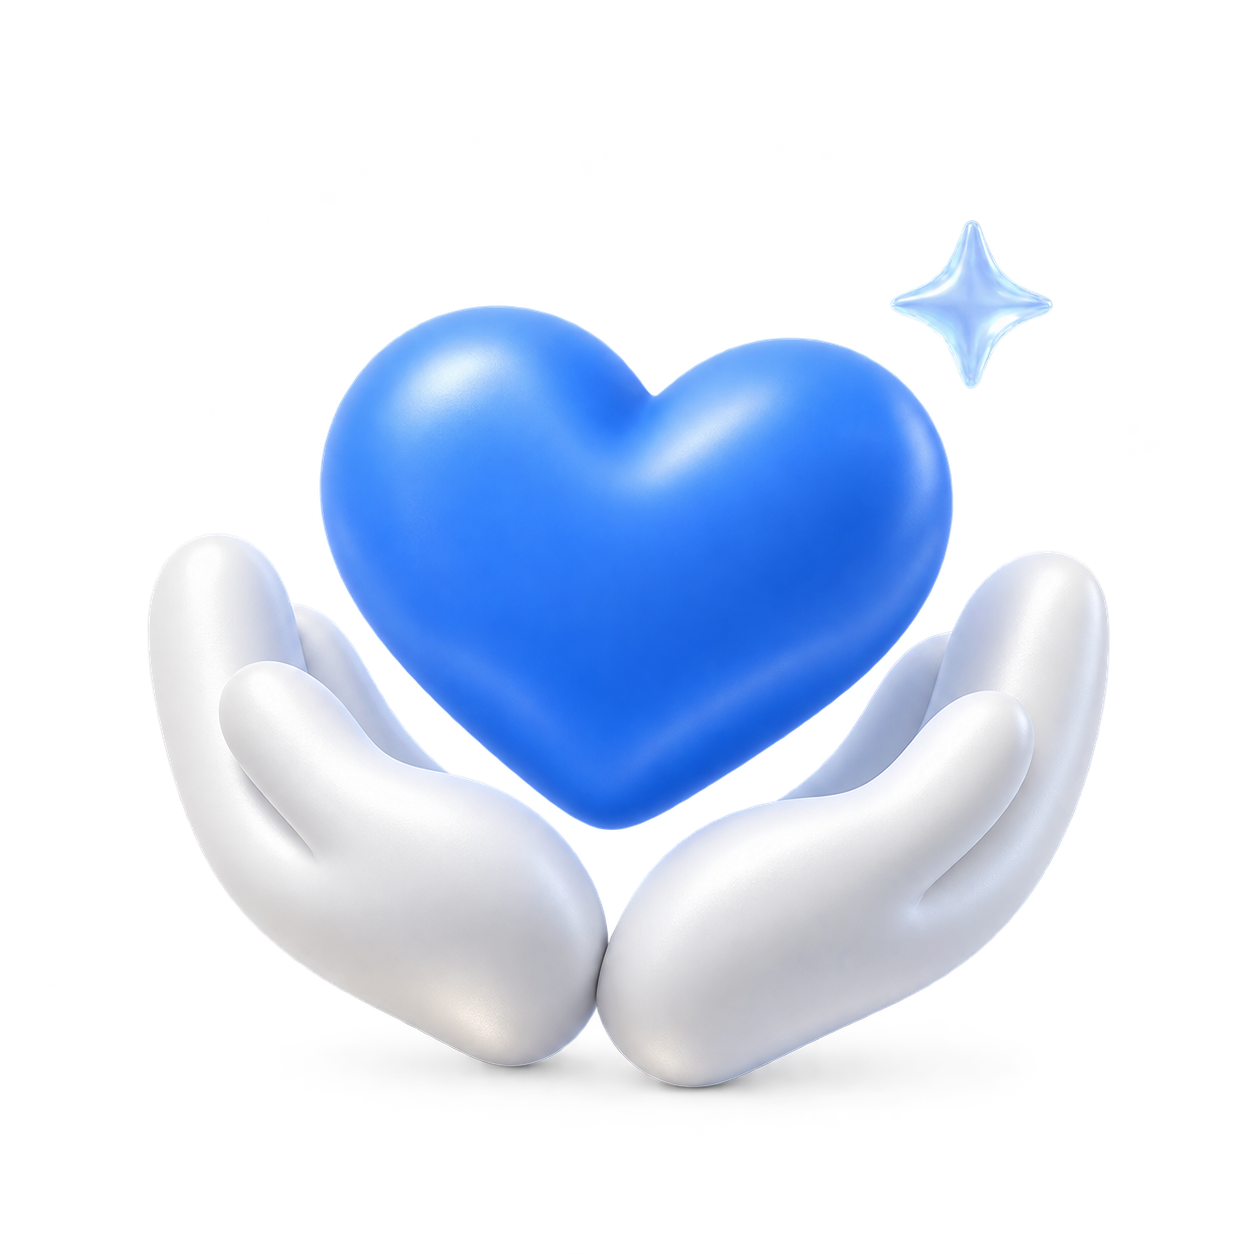
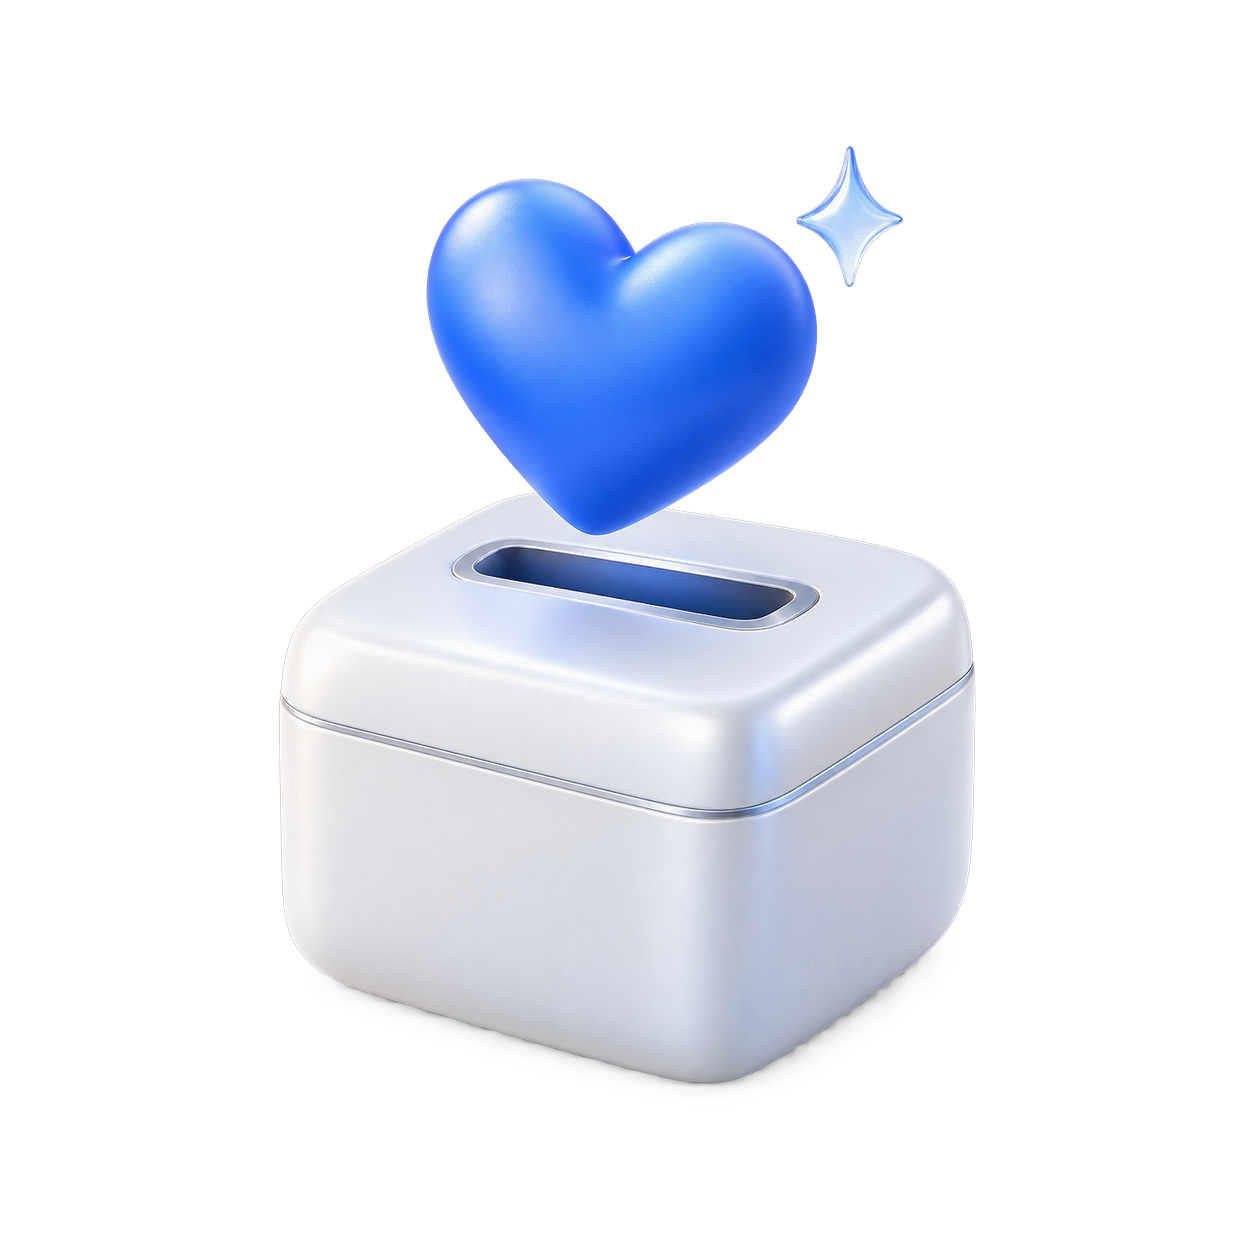
feat: replace images containing people with people-free versions
Swap 11 images that showed faces, bodies, hands or pedestrians for
AI-generated replacements at the same paths and dimensions. Three are
currently rendered (found-market, invite-art, donate-art); the other
eight are unreferenced files that remain publicly reachable.

- donate-art: scale the object down to match the other benefit icons
- Edition.js: update the market image alt text
- README: note the replacement and the current home hero files
- design/NO_PEOPLE_IMAGE_PROMPTS.md: target list and generation prompts

Changed region(s): [[0.0933, 0.1244, 0.9019, 0.8708], [0.7153, 0.1866, 0.8397, 0.311]]

diff --git a/components/Edition.js b/components/Edition.js
@@ -59,7 +59,7 @@ export function DiscoveryHero() {
 
 const PLACES = [
   {name:'편의점', image:'/images/editorial/note-coffee.png', alt:'일상 속 한 잔의 커피', title:<>늘 들르는 곳에도,<br />챙길 것이 있으니까.</>, description:'자주 가는 편의점의 행사도 놓치지 않게. 풀리가 찾아둔 정보를 가볍게 확인해 보세요.', example:'커피 2+1', date:'2026.09.30까지 · 9월 22일 확인', note:'매장 사정에 따라 일찍 끝나거나 물량이 없을 수 있어요.'},
-  {name:'마트', image:'/images/edition/found-market.png', alt:'동네 마트에서 고르는 신선한 과일', title:<>오늘 장보기에도,<br />반가운 발견 하나.</>, description:'우리 동네 마트의 행사 정보를 한곳에. 필요한 것을 사러 가기 전에 한 번 살펴보세요.', example:'제철 과일 한 팩 더', date:'2026.09.19 ~ 09.20 · 9월 18일 확인', note:'주말 한정 행사 예시예요. 매장별 물량이 다를 수 있어요.'},
+  {name:'마트', image:'/images/edition/found-market.png', alt:'동네 마트에 진열된 신선한 과일', title:<>오늘 장보기에도,<br />반가운 발견 하나.</>, description:'우리 동네 마트의 행사 정보를 한곳에. 필요한 것을 사러 가기 전에 한 번 살펴보세요.', example:'제철 과일 한 팩 더', date:'2026.09.19 ~ 09.20 · 9월 18일 확인', note:'주말 한정 행사 예시예요. 매장별 물량이 다를 수 있어요.'},
   {name:'주유소', image:'/images/edition/found-fuel.png', alt:'파란 주유 노즐이 놓인 동네 주유소', title:<>가까운 주유소를,<br />한 번 더 살펴봐요.</>, description:'내가 정해둔 생활권의 주유 가격을 모아 보여드려요. 확인한 시각도 함께 알려드려요.', example:'우리 동네 최저가 주유소', date:'휘발유 1리터 가격 · 오늘 06:00 기준', note:'주유 가격은 수시로 바뀌어요. 방문 시점에는 달라질 수 있어요.'},
 ];
 

diff --git a/design/NO_PEOPLE_IMAGE_PROMPTS.md b/design/NO_PEOPLE_IMAGE_PROMPTS.md
@@ -1,0 +1,134 @@
+# 인물 없는 이미지 교체 · AI 생성 프롬프트
+
+작성 2026-09-28 · `public/` 아래 이미지 59장(images 44, screens 9, mascot 6)을 전부 눈으로 확인해 사람(얼굴·몸·손·행인)이 나오는 이미지를 골랐고, 같은 날 11장 모두 교체했습니다.
+
+## 1. 교체 결과
+
+| # | 파일명 | 최종 경로 | 규격(px) | 이전 사람 요소 | 새 이미지 | 사이트 노출 |
+|---|---|---|---|---|---|---|
+| 1 | `found-market.png` | `public/images/edition/` | 1536×1024 | 과일을 집는 손·소매 | 오렌지·사과·딸기 진열대 | 노출 중 (FOUND AI · 마트) |
+| 2 | `fulif-hero-cinema-v2.png` | `public/images/` | 1672×941 | 영화관 커플 + 관객 | 빈 상영관, 팝콘과 티켓 | 코드 참조 없음 |
+| 3 | `fulif-hero-cinema-mobile-v2.png` | `public/images/` | 941×1672 | 영화관 커플 + 관객 | 빈 상영관 세로 구도 | 코드 참조 없음 |
+| 4 | `cafe-life.png` | `public/images/` | 1672×941 | 카페 커플 | 음료 두 잔이 놓인 빈 테이블 | 코드 참조 없음 |
+| 5 | `life-hero.png` | `public/images/` | 1672×941 | 버스 안 여성 + 승객 | 에코백이 놓인 빈 창가 좌석 | 코드 참조 없음 |
+| 6 | `reward-moment.png` | `public/images/` | 1672×941 | 휴대폰을 든 두 손 | 거치대에 세운 휴대폰 | 코드 참조 없음 |
+| 7 | `partner-moment.png` | `public/images/editorial/` | 1536×1024 | 바리스타와 손님 | 포장 봉투가 놓인 빈 카운터 | 코드 참조 없음 |
+| 8 | `service-day.png` | `public/images/editorial/` | 1536×1024 | 카페 안 여성 + 직원 | 빈 카페 창가 자리 | 코드 참조 없음 |
+| 9 | `found-street.png` | `public/images/edition/` | 1672×941 | 멀리 걷는 행인 2명 | 행인 없는 동네 거리 | 코드 참조 없음 |
+| 10 | `invite-art.png` | `public/images/benefits/` | 1254×1254 투명 | 사람 모양 3D 흉상 | 초대장 봉투 2개 | 노출 중 (혜택 · 친구 초대) |
+| 11 | `donate-art.png` | `public/images/benefits/` | 1254×1254 투명 | 3D 손 모양 오브제 | 기부함 위의 하트 | 노출 중 (혜택 · 기부) |
+
+- 원본 생성 파일은 `design/incoming/`에 같은 파일명으로 있습니다.
+- `donate-art.png`는 생성본이 프레임을 거의 꽉 채워, 다른 혜택 아이콘과 크기가 맞도록 오브제를 긴 변 964px로 줄여 가운데 배치했습니다. 나머지 10장은 생성본 그대로입니다.
+- 현재 히어로(`bright/hero-neighborhood*.png`)와 `bright/`, `fulif-own/`, `editorial/`의 나머지, `benefits/`·`subpages/` 3D 아트, 앱 스크린, 마스코트에는 사람이 없어 대상이 아닙니다.
+- `legacy/` 폴더는 배포되지 않아 제외했습니다.
+
+## 2. 다시 생성할 때의 규칙
+
+1. 아래 **파일명 그대로** PNG(sRGB)로 저장합니다.
+2. `design/incoming/` 폴더 **안에** 파일만 넣습니다. `design` 폴더 자체를 덮어쓰면 이 문서를 포함한 기존 문서가 지워집니다.
+3. 해상도는 표의 규격 이상, 비율만 맞으면 됩니다.
+
+| 비율 | 최종 규격 | 생성 시 권장 크기 |
+|---|---|---|
+| 3:2 가로 | 1536×1024 | 1536×1024 |
+| 16:9 가로 | 1672×941 | 1672×941 또는 1920×1080 |
+| 9:16 세로 | 941×1672 | 941×1672 또는 1080×1920 |
+| 1:1 (투명 배경) | 1254×1254 | 1254×1254 또는 1024×1024 |
+
+## 3. 공통 프롬프트
+
+### 3-1. 실사 사진용 공통 블록 (1~9번)
+
+각 이미지 프롬프트는 이 블록을 이미 포함하고 있습니다.
+
+```text
+Use case: photorealistic-natural. Asset type: original premium editorial photography for FULIF, a Korean everyday rewards website. Refined cobalt blue, white and pale sky blue with restrained green. Physically believable real materials and natural imperfect texture, not an illustration, not a plastic 3D miniature, not an AI-looking fantasy. Absolutely NO people, faces, hands, arms, silhouettes, human shadows, people reflected in glass, mannequins, models on posters, or human images on products or screens. No legible text, no lettering, logos, brand marks, watermarks, fake app UI or collages.
+```
+
+### 3-2. 네거티브 프롬프트 (도구가 지원할 때)
+
+```text
+people, person, human, man, woman, child, face, hands, fingers, arms, legs, silhouette, crowd, pedestrian, passerby, reflection of a person, human shadow, mannequin, portrait, poster with a person, text, letters, numbers, logo, watermark, signage, UI, barcode, low quality, distorted, extra objects
+```
+
+### 3-3. 생성 후 확인
+
+- 유리창·거울·휴대폰 화면·금속 표면에 사람이 비치지 않는지
+- 포스터·상품 포장·간판에 사람 그림이나 읽히는 글자가 없는지
+- 멀리 있는 작은 행인, 차 안 운전자, 바닥의 사람 그림자가 없는지
+- 파란색이 코발트 블루(`#3182f6` 계열)에 가깝고 전체가 밝은 톤인지 (영화관 장면 제외)
+
+## 4. 이미지별 프롬프트
+
+### 1. found-market.png
+
+화면에서는 데스크톱 약 650×535, 모바일 가로 전체×315로 잘려 표시됩니다. 주요 과일은 중앙 70% 안에 둡니다.
+
+```text
+Use case: photorealistic-natural. Asset type: original premium editorial photography for FULIF, a Korean everyday rewards website. Refined cobalt blue, white and pale sky blue with restrained green. Physically believable real materials and natural imperfect texture, not an illustration, not a plastic 3D miniature, not an AI-looking fantasy. Absolutely NO people, faces, hands, arms, silhouettes, human shadows, people reflected in glass, mannequins, models on posters, or human images on products or screens. No legible text, no lettering, logos, brand marks, watermarks, fake app UI or collages. Primary request: wide landscape 3:2 close view of a fresh fruit display in a bright small Korean neighborhood grocery market. A generous pile of vivid oranges in a cobalt-blue plastic crate at the center, red apples in a blue crate to the left, clear punnets of strawberries in the front. Softly blurred bright shop interior with shelves and a sunlit window behind. No hand reaching for the fruit, nobody in the aisle. Main fruit kept within the central 70% of the frame so the image survives cropping. Eye-level 50mm photograph, shallow depth of field, luminous morning daylight, clean and appetizing, no price tags or labels.
+```
+
+### 2. fulif-hero-cinema-v2.png
+
+```text
+Use case: photorealistic-natural. Asset type: original premium editorial photography for FULIF, a Korean everyday rewards website. Refined cobalt blue, white and pale sky blue with restrained green. Physically believable real materials and natural imperfect texture, not an illustration, not a plastic 3D miniature, not an AI-looking fantasy. Absolutely NO people, faces, hands, arms, silhouettes, human shadows, people reflected in glass, mannequins, models on posters, or human images on products or screens. No legible text, no lettering, logos, brand marks, watermarks, fake app UI or collages. Primary request: wide cinematic 16:9 view of a completely empty modern cinema auditorium just after a screening. Rows of deep cobalt-blue velvet seats, warm small amber step lights along the aisle stairs on the right. In the middle row, one paper cup of popcorn resting in a cup holder and two blank pale paper tickets left on a seat cushion. Every seat is empty, nobody on the stairs, nobody in the background. Out-of-focus blue seat backs fill the lower foreground, leaving a calm dark area in the upper left for a white headline overlay. Moody but inviting low light, soft blue ambient glow, realistic velvet texture, 35mm lens.
+```
+
+### 3. fulif-hero-cinema-mobile-v2.png
+
+```text
+Use case: photorealistic-natural. Asset type: original premium editorial photography for FULIF, a Korean everyday rewards website. Refined cobalt blue, white and pale sky blue with restrained green. Physically believable real materials and natural imperfect texture, not an illustration, not a plastic 3D miniature, not an AI-looking fantasy. Absolutely NO people, faces, hands, arms, silhouettes, human shadows, people reflected in glass, mannequins, models on posters, or human images on products or screens. No legible text, no lettering, logos, brand marks, watermarks, fake app UI or collages. Primary request: tall portrait 9:16 image for a mobile website hero. A completely empty modern cinema auditorium with rows of deep cobalt-blue velvet seats and warm amber step lights along the aisle stairs on the right. In the middle of the frame, one paper cup of popcorn in a cup holder and two blank pale paper tickets left on a seat cushion. Every seat is empty, nobody on the stairs. Top 35% is calm dark blue ceiling and back wall with a few soft spotlights for a white headline overlay, bottom 30% is out-of-focus blue seat backs. Moody but inviting low light, realistic velvet texture.
+```
+
+### 4. cafe-life.png
+
+```text
+Use case: photorealistic-natural. Asset type: original premium editorial photography for FULIF, a Korean everyday rewards website. Refined cobalt blue, white and pale sky blue with restrained green. Physically believable real materials and natural imperfect texture, not an illustration, not a plastic 3D miniature, not an AI-looking fantasy. Absolutely NO people, faces, hands, arms, silhouettes, human shadows, people reflected in glass, mannequins, models on posters, or human images on products or screens. No legible text, no lettering, logos, brand marks, watermarks, fake app UI or collages. Primary request: wide 16:9 view of a long wooden table in a bright Korean cafe beside large open windows with green trees outside. On the table, two iced americano glasses with straws placed across from each other, a face-down white smartphone and a small glass vase of white wildflowers at the left edge. Two empty chairs slightly pulled out, as if friends have just stepped away. Nobody in the cafe, nobody outside the window. Bright airy daylight, soft leaf shadows on the table, shallow depth of field, calm warm mood with cobalt-blue accents in a coaster and a folded napkin.
+```
+
+### 5. life-hero.png
+
+```text
+Use case: photorealistic-natural. Asset type: original premium editorial photography for FULIF, a Korean everyday rewards website. Refined cobalt blue, white and pale sky blue with restrained green. Physically believable real materials and natural imperfect texture, not an illustration, not a plastic 3D miniature, not an AI-looking fantasy. Absolutely NO people, faces, hands, arms, silhouettes, human shadows, people reflected in glass, mannequins, models on posters, or human images on products or screens. No legible text, no lettering, logos, brand marks, watermarks, fake app UI or collages. Primary request: wide 16:9 interior of an empty Seoul city bus on a bright morning. A window seat with cobalt-blue upholstery on the right, a plain cream canvas tote bag resting on the seat, blue handrails and poles receding into the softly blurred background. Through the large window on the left, a sunlit tree-lined city street with softly blurred buildings. Every seat is empty, no driver visible, no pedestrians outside, no people in passing cars. Warm morning sunlight streaming across the seats, gentle lens glow, calm optimistic commute mood, 35mm lens. No route maps, advertisements or signage.
+```
+
+### 6. reward-moment.png
+
+```text
+Use case: photorealistic-natural. Asset type: original premium editorial photography for FULIF, a Korean everyday rewards website. Refined cobalt blue, white and pale sky blue with restrained green. Physically believable real materials and natural imperfect texture, not an illustration, not a plastic 3D miniature, not an AI-looking fantasy. Absolutely NO people, faces, hands, arms, silhouettes, human shadows, people reflected in glass, mannequins, models on posters, or human images on products or screens. No legible text, no lettering, logos, brand marks, watermarks, fake app UI or collages. Primary request: wide 16:9 close view of a modern smartphone standing upright on a small wooden stand on a round cafe table by a large window. The phone screen is plain clean white with only one simple cobalt-blue circle containing a white check mark in the center, nothing else on the screen. Beside it a white cup of latte on a saucer and a small vase of white flowers, softly blurred. Phone placed right of center, the left 45% is a softly blurred bright window with a pale city view for headline overlay. Nobody holding the phone, no hands, no reflections of a person on the screen. Soft natural daylight, shallow depth of field.
+```
+
+### 7. partner-moment.png
+
+현재 파트너 페이지에서 쓰는 `bright/partner-counter.png`와 겹치지 않도록 카운터를 측면에서 본 구도입니다.
+
+```text
+Use case: photorealistic-natural. Asset type: original premium editorial photography for FULIF, a Korean everyday rewards website. Refined cobalt blue, white and pale sky blue with restrained green. Physically believable real materials and natural imperfect texture, not an illustration, not a plastic 3D miniature, not an AI-looking fantasy. Absolutely NO people, faces, hands, arms, silhouettes, human shadows, people reflected in glass, mannequins, models on posters, or human images on products or screens. No legible text, no lettering, logos, brand marks, watermarks, fake app UI or collages. Primary request: wide landscape 3:2 side-angle view along a bright neighborhood cafe pickup counter. A plain kraft paper takeaway bag with a folded top standing ready on the white stone counter in the center, a glass dome with scones at the lower left, a cobalt-blue espresso machine and a coffee grinder softly blurred behind. White tiled wall with wooden shelves of cups at the left, a large sunlit window on the right. No barista behind the counter, no customer, the order is simply waiting to be picked up. Blank tablet stand turned away from camera. Luminous natural daylight, warm welcoming mood, shallow depth of field.
+```
+
+### 8. service-day.png
+
+```text
+Use case: photorealistic-natural. Asset type: original premium editorial photography for FULIF, a Korean everyday rewards website. Refined cobalt blue, white and pale sky blue with restrained green. Physically believable real materials and natural imperfect texture, not an illustration, not a plastic 3D miniature, not an AI-looking fantasy. Absolutely NO people, faces, hands, arms, silhouettes, human shadows, people reflected in glass, mannequins, models on posters, or human images on products or screens. No legible text, no lettering, logos, brand marks, watermarks, fake app UI or collages. Primary request: wide landscape 3:2 interior of a bright minimalist Korean cafe with floor-to-ceiling windows and green street trees outside on the left. In the right half, a light oak table with a takeaway iced americano, a face-down smartphone and a cream canvas tote bag with a pale blue shirt folded over the back of the chair. A small vase of white wildflowers on a table in the lower left. Potted olive tree near the window. The cafe is empty, no customers, no staff behind the counter, nobody on the street outside. High-key airy daylight, soft shadows, calm uncluttered composition, 35mm lens. No framed pictures showing people.
+```
+
+### 9. found-street.png
+
+```text
+Use case: photorealistic-natural. Asset type: original premium editorial photography for FULIF, a Korean everyday rewards website. Refined cobalt blue, white and pale sky blue with restrained green. Physically believable real materials and natural imperfect texture, not an illustration, not a plastic 3D miniature, not an AI-looking fantasy. Absolutely NO people, faces, hands, arms, silhouettes, human shadows, people reflected in glass, mannequins, models on posters, or human images on products or screens. No legible text, no lettering, logos, brand marks, watermarks, fake app UI or collages. Primary request: wide 16:9 view down a quiet Seoul neighborhood street in warm late-afternoon light. On the left, a small convenience store with a vivid cobalt-blue awning and bright glass front, potted plants and a small wooden bench outside. Beyond it a cafe terrace with empty chairs, low-rise stone and white buildings, tall green street trees. The street and sidewalks are completely empty all the way to the far end, no pedestrians in the distance, no cyclists, no cars with drivers. Clear blue sky at upper right, long soft shadows, eye-level 28mm architectural photograph, human-scale and recognizably local. No shop signs with text.
+```
+
+### 10. invite-art.png
+
+투명 배경을 지원하지 않는 도구라면 순백(`#ffffff`) 단색 배경으로 뽑은 뒤 배경을 제거합니다.
+
+```text
+Use case: stylized-concept. Asset type: original premium 3D object illustration for a Korean blue-and-white fintech rewards website (FULIF). Style: exquisitely polished soft 3D product render, like a high-end Korean financial app campaign; tactile matte pearl-white polymer and vivid cornflower/cobalt blue #3182f6, a little frosted ice-blue glass and brushed silver. Realistic rounded bevels, beautiful studio highlights, soft ambient occlusion, no plasticky toy cheapness, no outlines. Three-quarter view, centered compact still-life, all objects fully visible with generous 15% transparent margin. Square image. Truly transparent alpha background, no background plane or colored backdrop, no opaque white rectangle, subtle contact shadow only. No words, no UI, no logos, no watermark, no extra objects beyond described subject. Subject: Two rounded invitation envelopes leaning together, one cobalt blue in front and one pearl white behind, the front envelope slightly open with a frosted ice-blue card peeking out. A small thick blue plus symbol floating above between them. No people, no person icons, no busts, no hands, no faces.
+```
+
+### 11. donate-art.png
+
+```text
+Use case: stylized-concept. Asset type: original premium 3D object illustration for a Korean blue-and-white fintech rewards website (FULIF). Style: exquisitely polished soft 3D product render, like a high-end Korean financial app campaign; tactile matte pearl-white polymer and vivid cornflower/cobalt blue #3182f6, a little frosted ice-blue glass and brushed silver. Realistic rounded bevels, beautiful studio highlights, soft ambient occlusion, no plasticky toy cheapness, no outlines. Three-quarter view, centered compact still-life, all objects fully visible with generous 15% transparent margin. Square image. Truly transparent alpha background, no background plane or colored backdrop, no opaque white rectangle, subtle contact shadow only. No words, no UI, no logos, no watermark, no extra objects beyond described subject. Subject: A single soft sculptural cobalt-blue heart floating just above the slot of a small rounded pearl-white donation box, as if about to drop in. One small frosted ice-blue sparkle near the upper right. A quiet, warm giving gesture. No hands, no people, no faces, no other objects.
+```
